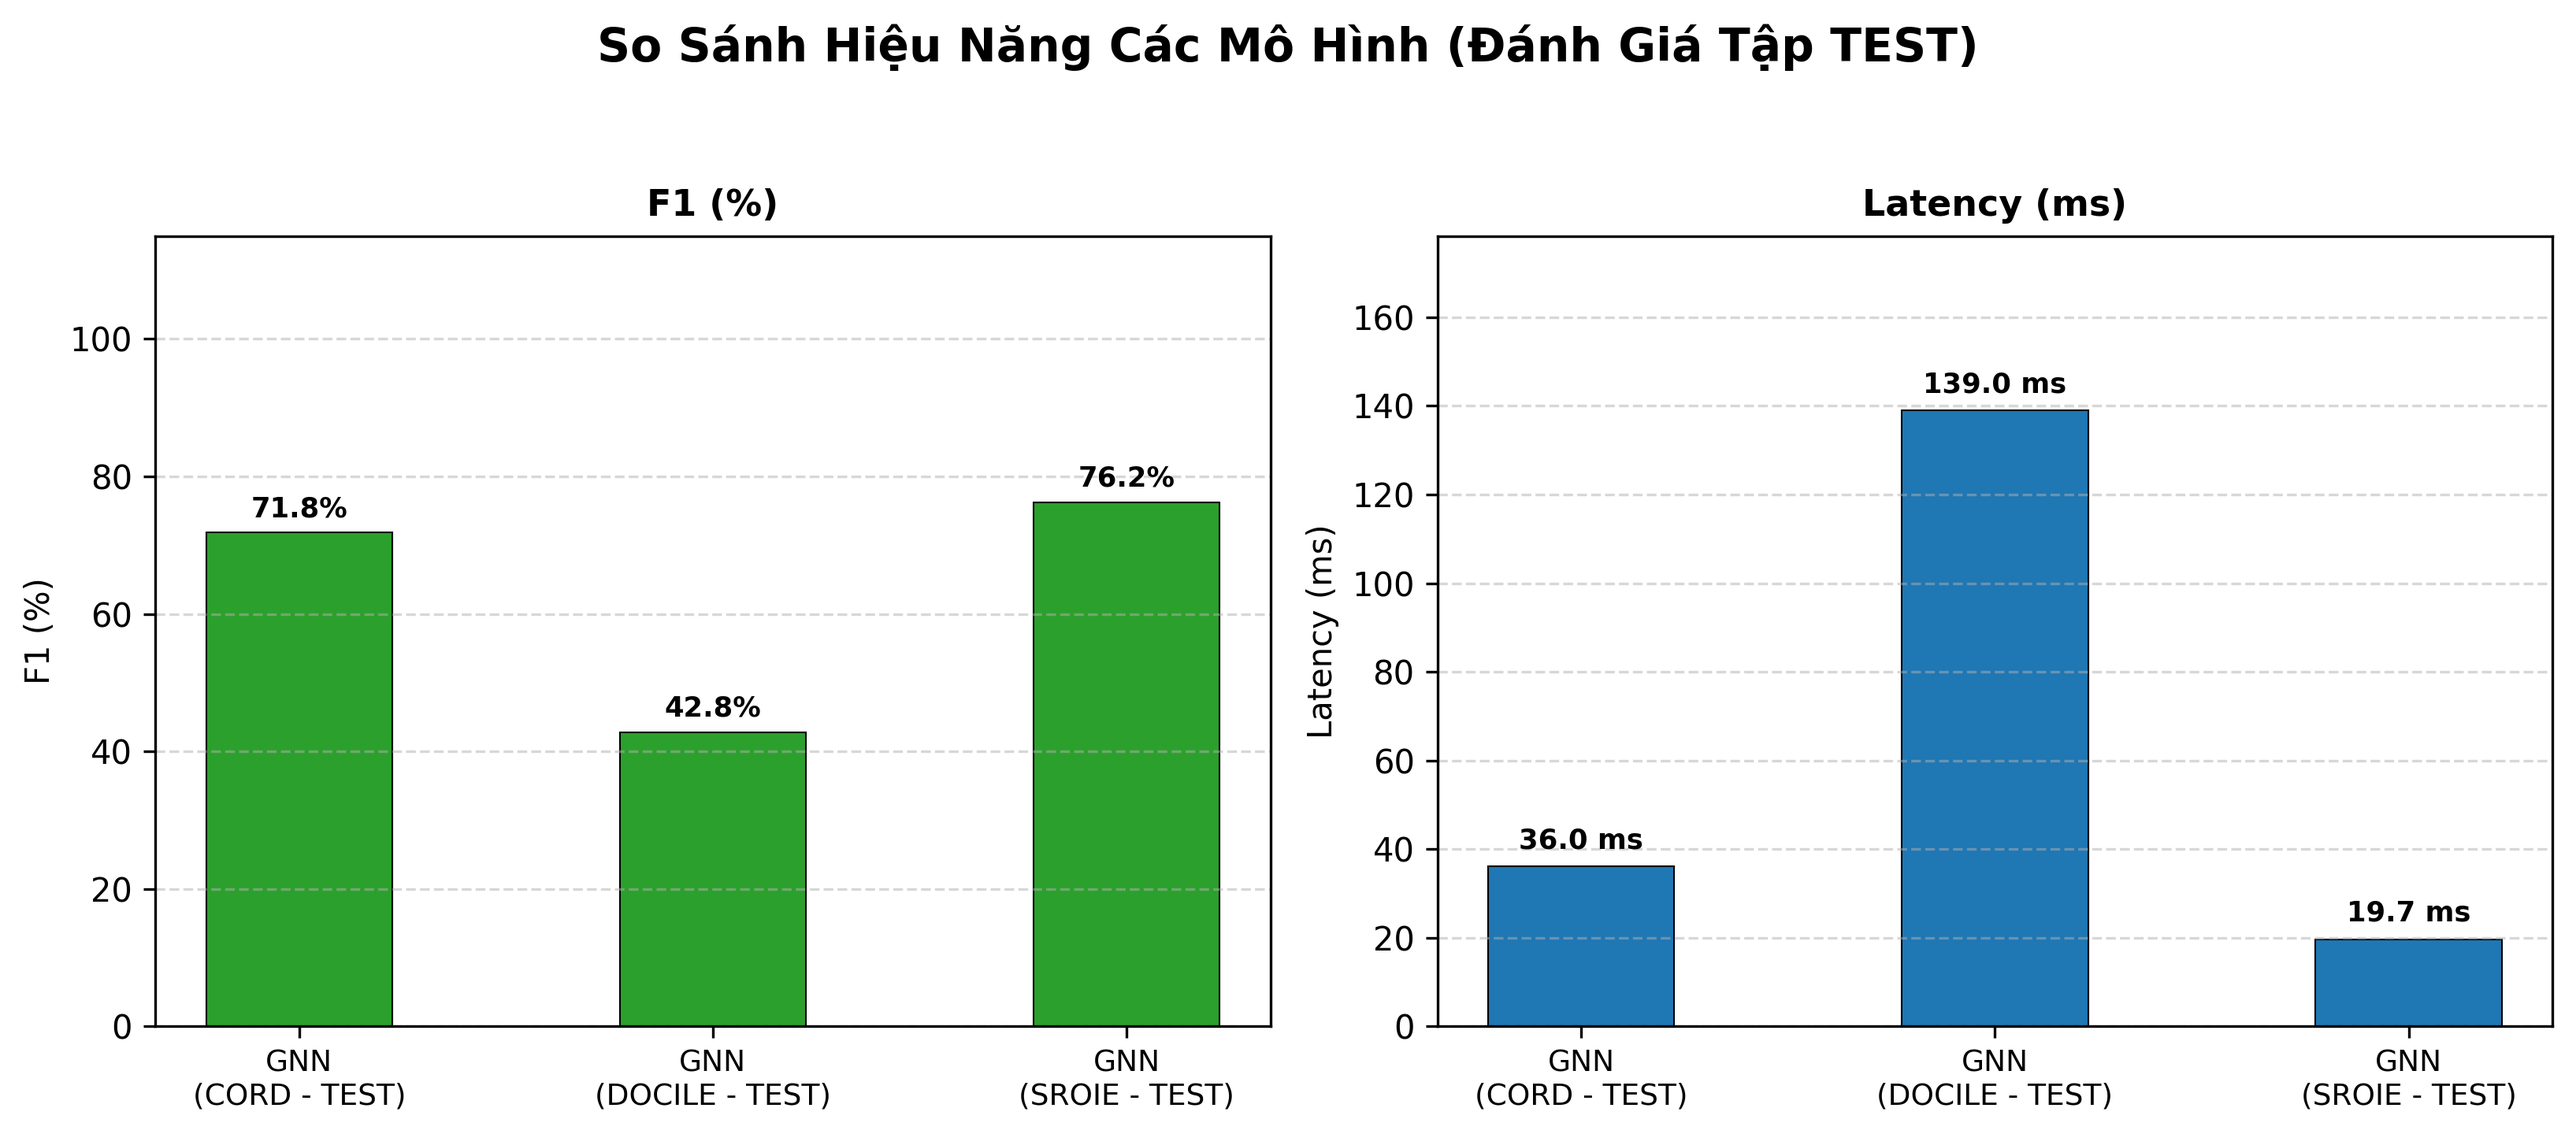
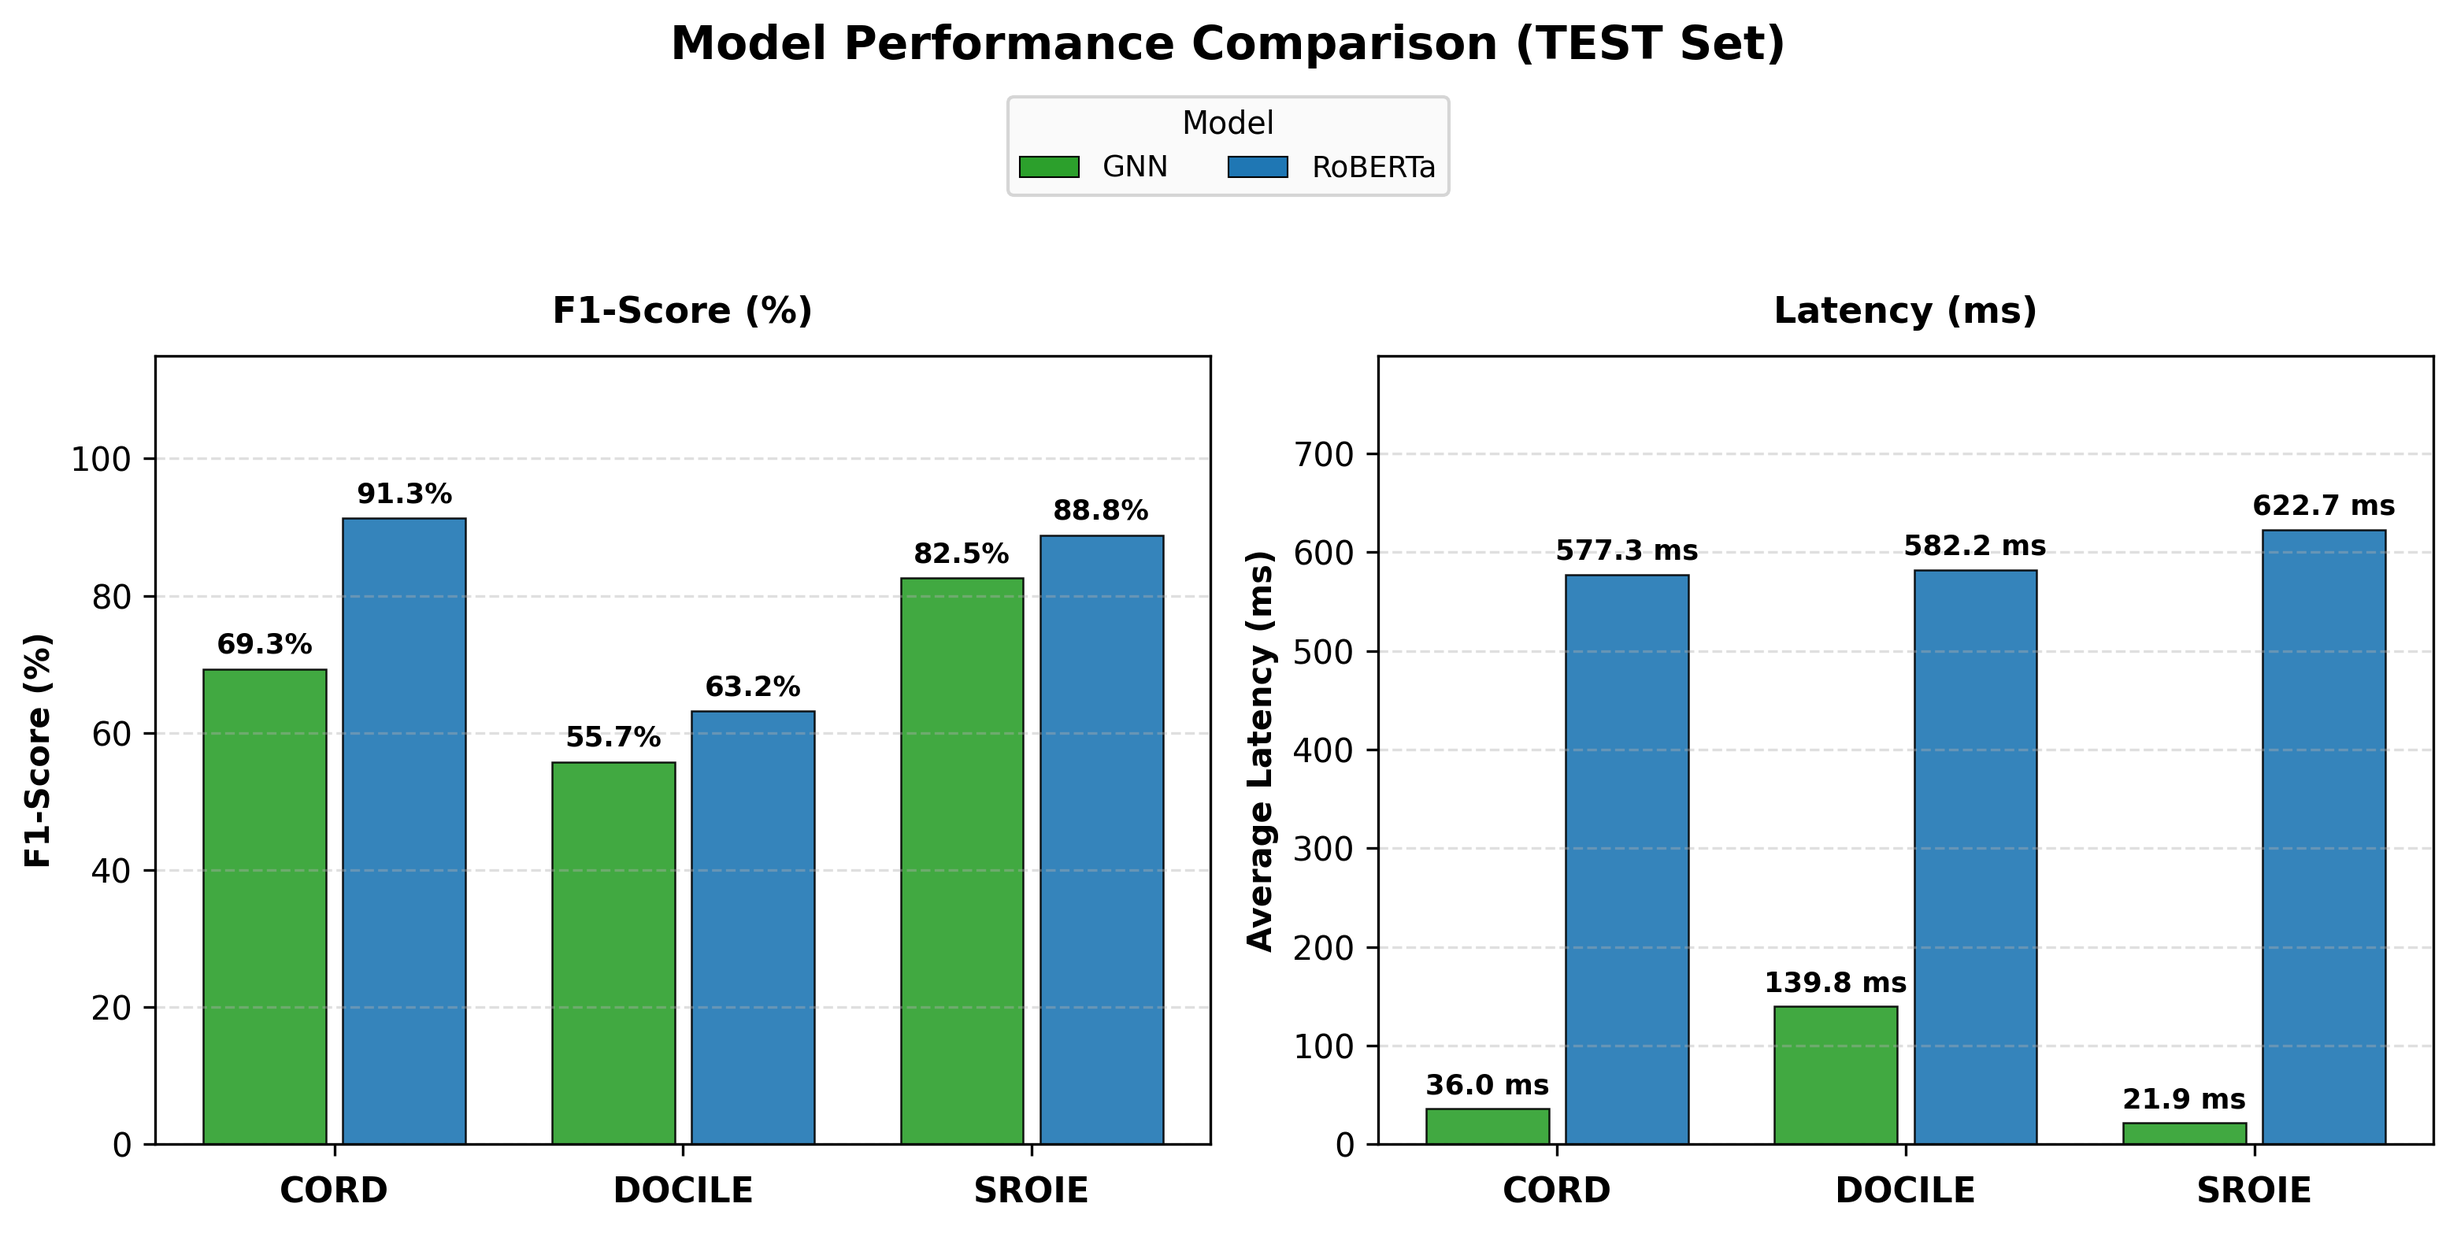
fix(eval): redesign benchmark chart to clean grouped style and isolate test predictions

diff --git a/app/evaluation/report.py b/app/evaluation/report.py
@@ -423,60 +423,96 @@ def generate_benchmark_summary(reports_dir: Path) -> dict[str, Path | None]:
     # 2. Generate Comparative Bar Chart if matplotlib is available (supports N models dynamically)
     if plt is not None and len(records) >= 1:
         try:
-            labels = [f"{r.get('model', '')}\n({r.get('dataset', '').upper()} - {r.get('split', 'TEST' if r.get('metrics_test') else 'VAL')})" for r in records]
-            f1s = [float(r.get("f1", 0.0)) * 100 for r in records]
-            latencies = [r.get("latency", 0.0) for r in records]
+            datasets = sorted(list(dict.fromkeys(r.get("dataset", "Unknown").upper() for r in records)))
+            models = sorted(list(dict.fromkeys(r.get("model", "Unknown") for r in records)))
+            rec_map = {(r.get("dataset", "Unknown").upper(), r.get("model", "Unknown")): r for r in records}
 
-            fig_width = max(11.0, len(labels) * 1.8)
-            fig, axes = plt.subplots(1, 2, figsize=(fig_width, 5.0), dpi=300)
-            fig.suptitle("So Sánh Hiệu Năng Các Mô Hình (Đánh Giá Tập TEST)", fontsize=14, fontweight="bold", y=0.98)
+            num_datasets = len(datasets)
+            num_models = len(models)
 
-            x = np.arange(len(labels))
+            model_palette = {
+                "GNN": "#2ca02c",         # Green
+                "RoBERTa": "#1f77b4",     # Blue
+                "LayoutLMv3": "#d62728",  # Red
+                "LiLT": "#8c564b",        # Brown
+            }
+            default_colors = [
+                "#2ca02c", "#1f77b4", "#ff7f0e", "#d62728",
+                "#9467bd", "#8c564b", "#e377c2", "#7f7f7f",
+                "#bcbd22", "#17becf"
+            ]
 
-            # Subplot 1: F1
-            ax1 = axes[0]
-            bars_f1 = ax1.bar(x, f1s, width=0.45, color="#2ca02c", edgecolor="black", linewidth=0.5)
-            ax1.set_title("F1 (%)", fontsize=11, fontweight="bold")
-            ax1.set_ylabel("F1 (%)", fontsize=10)
-            ax1.set_xticks(x)
-            ax1.set_xticklabels(labels, fontsize=9)
+            fig_width = max(10.5, num_datasets * num_models * 0.85 + 2.0)
+            fig, axes = plt.subplots(1, 2, figsize=(fig_width, 5.5), dpi=300)
+            fig.suptitle("Model Performance Comparison (TEST Set)", fontsize=14, fontweight="bold", y=0.98)
+
+            total_group_width = 0.80
+            bar_width = total_group_width / max(num_models, 1)
+
+            ax1, ax2 = axes[0], axes[1]
+
+            # Subplot 1: F1-Score
+            ax1.set_title("F1-Score (%)", fontsize=11, fontweight="bold", pad=10)
+            ax1.set_ylabel("F1-Score (%)", fontsize=10, fontweight="semibold")
             ax1.set_ylim(0, 115)
-            ax1.grid(True, linestyle="--", alpha=0.5, axis="y")
-            for bar in bars_f1:
-                h = bar.get_height()
-                ax1.text(
-                    bar.get_x() + bar.get_width() / 2,
-                    h + 1.5,
-                    f"{h:.1f}%",
-                    ha="center",
-                    va="bottom",
-                    fontsize=8.5,
-                    fontweight="semibold",
-                )
+            ax1.grid(True, linestyle="--", alpha=0.4, axis="y")
 
             # Subplot 2: Latency
-            ax2 = axes[1]
-            bars_lat = ax2.bar(x, latencies, width=0.45, color="#1f77b4", edgecolor="black", linewidth=0.5)
-            ax2.set_title("Latency (ms)", fontsize=11, fontweight="bold")
-            ax2.set_ylabel("Latency (ms)", fontsize=10)
-            ax2.set_xticks(x)
-            ax2.set_xticklabels(labels, fontsize=9)
-            max_lat = max(latencies) if latencies else 1.0
-            ax2.set_ylim(0, max_lat * 1.28 + 0.5)
-            ax2.grid(True, linestyle="--", alpha=0.5, axis="y")
-            for bar in bars_lat:
-                h = bar.get_height()
-                ax2.text(
-                    bar.get_x() + bar.get_width() / 2,
-                    h + (max_lat * 0.02 + 0.1),
-                    f"{h:.1f} ms",
-                    ha="center",
-                    va="bottom",
-                    fontsize=8.5,
-                    fontweight="semibold",
-                )
+            ax2.set_title("Latency (ms)", fontsize=11, fontweight="bold", pad=10)
+            ax2.set_ylabel("Average Latency (ms)", fontsize=10, fontweight="semibold")
+            max_lat = max((float(r.get("latency", 0.0)) for r in records), default=1.0)
+            ax2.set_ylim(0, max_lat * 1.28 + 2.0)
+            ax2.grid(True, linestyle="--", alpha=0.4, axis="y")
 
-            plt.tight_layout(rect=[0, 0.03, 1, 0.94])
+            x = np.arange(num_datasets)
+            val_font = 7.0 if num_models >= 4 else 8.5
+
+            for j, m in enumerate(models):
+                offset = (j - (num_models - 1) / 2) * bar_width
+                color = model_palette.get(m, default_colors[j % len(default_colors)])
+
+                for i, d in enumerate(datasets):
+                    rec = rec_map.get((d, m))
+                    if rec is None:
+                        continue
+
+                    f1_val = float(rec.get("f1", 0.0)) * 100
+                    lat_val = float(rec.get("latency", 0.0))
+                    pos = i + offset
+
+                    ax1.bar(pos, f1_val, width=bar_width * 0.88, label=m if i == 0 else "", color=color, edgecolor="black", linewidth=0.6, alpha=0.9)
+                    ax2.bar(pos, lat_val, width=bar_width * 0.88, label=m if i == 0 else "", color=color, edgecolor="black", linewidth=0.6, alpha=0.9)
+
+                    if f1_val > 0:
+                        ax1.text(pos, f1_val + 1.5, f"{f1_val:.1f}%", ha="center", va="bottom", fontsize=val_font, fontweight="semibold", rotation=0)
+                    if lat_val > 0:
+                        lat_text = f"{lat_val:.1f}" if num_models >= 4 else f"{lat_val:.1f} ms"
+                        ax2.text(pos, lat_val + (max_lat * 0.015 + 0.2), lat_text, ha="center", va="bottom", fontsize=val_font, fontweight="semibold", rotation=0)
+
+            for ax in [ax1, ax2]:
+                ax.set_xticks(x)
+                ax.set_xticklabels(datasets, fontsize=10.5, fontweight="bold")
+                ax.tick_params(axis="x", pad=6)
+
+            legend_elements = [
+                plt.Rectangle((0, 0), 1, 1, facecolor=model_palette.get(m, default_colors[j % len(default_colors)]), edgecolor="black", linewidth=0.5, label=m)
+                for j, m in enumerate(models)
+            ]
+            ncol_val = min(len(models), 6)
+            fig.legend(
+                handles=legend_elements,
+                loc="upper center",
+                bbox_to_anchor=(0.5, 0.935),
+                ncol=ncol_val,
+                frameon=True,
+                facecolor="#f9f9f9",
+                edgecolor="#cccccc",
+                fontsize=9,
+                title="Model",
+                title_fontsize=9.5,
+            )
+
+            plt.tight_layout(rect=[0, 0.04, 1, 0.86])
             plt.savefig(fig_path, format="png", bbox_inches="tight")
             plt.close(fig)
             has_fig = True

diff --git a/tests/test_cli_and_runners.py b/tests/test_cli_and_runners.py
@@ -76,12 +76,12 @@ def test_prepare_cli_defaults():
     assert mapped_specific == ["validation"]
 
 
-def test_predict_cli_defaults():
+def test_predict_cli_defaults(tmp_path: Path):
     """Verify predict.py parser defaults and resolution behavior."""
     from app.evaluation.predict import main as predict_main
 
-    # Invoking predict_main with --dataset all should gracefully run and return 0
-    ret = predict_main(["--dataset", "all", "--limit", "2"])
+    # Invoking predict_main with --dataset all into isolated tmp_path
+    ret = predict_main(["--dataset", "all", "--limit", "2", "--report-dir", str(tmp_path)])
     assert ret == 0
 
 

diff --git a/reports/benchmark_summary.md b/reports/benchmark_summary.md
@@ -6,9 +6,12 @@ Tổng hợp kết quả thực nghiệm từ các file trong thư mục `report
 
 | Mô hình | Bộ dữ liệu | Tập | Epoch | Precision (%) | Recall (%) | F1 (%) | Latency (ms) |
 |---|---|:---:|:---:|---|---|---|---|
-| **GNN** | `CORD` | `TEST` | 19 | 66.71% | 77.79% | **71.82%** | 36.04 ms |
-| **GNN** | `DOCILE` | `TEST` | 20 | 32.55% | 62.57% | **42.82%** | 138.98 ms |
-| **GNN** | `SROIE` | `TEST` | 18 | 65.31% | 91.48% | **76.21%** | 19.67 ms |
+| **GNN** | `CORD` | `TEST` | 15 | 64.09% | 75.36% | **69.27%** | 35.98 ms |
+| **RoBERTa** | `CORD` | `TEST` | 12 | 91.03% | 91.51% | **91.27%** | 577.28 ms |
+| **GNN** | `DOCILE` | `TEST` | 18 | 52.75% | 59.08% | **55.74%** | 139.84 ms |
+| **RoBERTa** | `DOCILE` | `TEST` | 19 | 75.29% | 54.40% | **63.17%** | 582.18 ms |
+| **GNN** | `SROIE` | `TEST` | 12 | 80.54% | 84.66% | **82.55%** | 21.89 ms |
+| **RoBERTa** | `SROIE` | `TEST` | 15 | 86.33% | 91.48% | **88.83%** | 622.72 ms |
 
 ## 2. Biểu Đồ So Sánh
 
